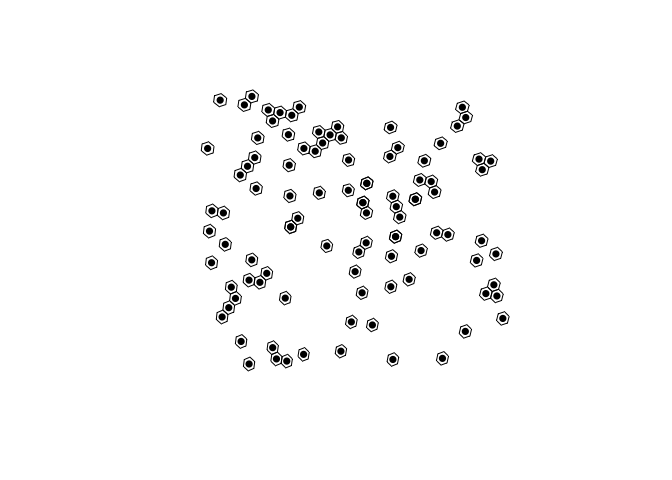
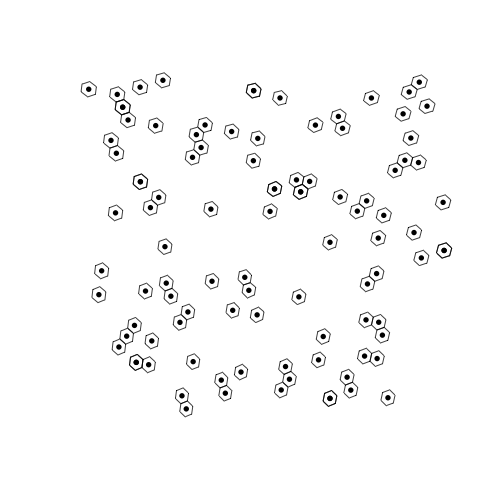
update readme

diff --git a/README.md b/README.md
@@ -1,24 +1,22 @@
+---
+output: github_document
+---
 
 <!-- README.md is generated from README.Rmd. Please edit that file -->
+
+
 
 # h3o
 
 <!-- badges: start -->
-
 [![R-CMD-check](https://github.com/JosiahParry/h3o/actions/workflows/R-CMD-check.yaml/badge.svg)](https://github.com/JosiahParry/h3o/actions/workflows/R-CMD-check.yaml)
 <!-- badges: end -->
 
-h3o is a system-dependency free package to interact with the H3
-Geospatial Indexing system by Uber. h3o utilizes the Rust library h3o
-with is a pure rust implementation of H3 and does not link or use Uber’s
-H3 C library. h3o R interface is powered by
-[extendr](https://extendr.github.io/) and should be able to compile on
-any machine.
+h3o is a system-dependency free package to interact with the H3 Geospatial Indexing system by Uber. h3o utilizes the Rust library h3o with is a pure rust implementation of H3 and does not link or use Uber's H3 C library. h3o R interface is powered by [extendr](https://extendr.github.io/) and should be able to compile on any machine. 
 
 ## Installation
 
-You can install the development version of h3o from
-[GitHub](https://github.com/) with:
+You can install the development version of h3o from [GitHub](https://github.com/) with:
 
 ``` r
 # install.packages("remotes")
@@ -27,8 +25,8 @@ remotes::install_github("JosiahParry/h3o")
 
 ## Example
 
-To illustrate the basic usage, we can first create an sf object of
-random points.
+To illustrate the basic usage, we can first create an sf object of random points. 
+
 
 ``` r
 pnts <- tibble::tibble(
@@ -39,13 +37,15 @@ pnts <- tibble::tibble(
     coords = c("x", "y"), 
     crs = 4326
   )
+
 ```
 
-h3o utilizes vctrs to create H3 class vectors so that they can work
-seemlessly within a tidyverse workflow.
+h3o utilizes vctrs to create H3 class vectors so that they can work seemlessly within
+a tidyverse workflow. 
 
-h3o is intended to work with the sf package for geometric operations. H3
-vectors can be created from `POINT` geometry columns (`sfc` objects).
+h3o is intended to work with the sf package for geometric operations. 
+H3 vectors can be created from `POINT` geometry columns (`sfc` objects).
+
 
 ``` r
 library(h3o)
@@ -55,26 +55,25 @@ pnts |>
 #> Simple feature collection with 100 features and 1 field
 #> Geometry type: POINT
 #> Dimension:     XY
-#> Bounding box:  xmin: -4.80551 ymin: 40.57655 xmax: 9.958988 ymax: 49.98309
+#> Bounding box:  xmin: -4.919497 ymin: 40.25333 xmax: 9.98528 ymax: 49.9593
 #> Geodetic CRS:  WGS 84
 #> # A tibble: 100 × 2
 #>                 geometry              h3
 #>  *           <POINT [°]>            <H3>
-#>  1 (-0.8983678 46.42658) 85186a8bfffffff
-#>  2   (1.884723 41.12234) 853946a7fffffff
-#>  3  (-4.056968 44.74521) 85185daffffffff
-#>  4   (8.173147 49.37186) 851f85b7fffffff
-#>  5   (3.206761 41.95335) 8539451bfffffff
-#>  6   (4.490571 43.27424) 85396eaffffffff
-#>  7  (-2.247376 43.43344) 85184b83fffffff
-#>  8  (-2.228073 46.82696) 85184577fffffff
-#>  9    (8.85834 47.34941) 851f8ecffffffff
-#> 10   (8.744089 47.93225) 851f8177fffffff
+#>  1   (2.785472 46.45577) 851f94cffffffff
+#>  2   (5.259132 44.97223) 851f930ffffffff
+#>  3   (8.734851 48.01969) 851f810ffffffff
+#>  4  (-3.751716 49.25705) 85187193fffffff
+#>  5   (9.780378 44.62055) 851ea6cbfffffff
+#>  6    (7.87759 47.21568) 851f8303fffffff
+#>  7   (6.871837 42.57346) 851eb6dbfffffff
+#>  8   (4.450498 46.81359) 851f951bfffffff
+#>  9 (0.01801486 43.70956) 8539668bfffffff
+#> 10    (8.864163 44.3646) 851f9b0bfffffff
 #> # ℹ 90 more rows
 ```
+Additionally, H3 vectors also have an `st_as_sfc()` method which lets us convert vectors of H3 cell indexes into `POLYGON`s. 
 
-Additionally, H3 vectors also have an `st_as_sfc()` method which lets us
-convert vectors of H3 cell indexes into `POLYGON`s.
 
 ``` r
 h3_cells <- pnts |> 
@@ -88,11 +87,14 @@ h3_cells <- pnts |>
 plot(sf::st_geometry(h3_cells))
 ```
 
-<img src="man/figures/README-unnamed-chunk-3-1.png" width="100%" />
+<div class="figure">
+<img src="man/figures/README-unnamed-chunk-3-1.png" alt="plot of chunk unnamed-chunk-3" width="100%" />
+<p class="caption">plot of chunk unnamed-chunk-3</p>
+</div>
 
-H3 cell centroids can be returned using `h3_to_points()`. If `sf` is
-avilable the results will be returned as an `sfc` (sf column) object.
-Otherwise it will return a list of `sfg` (sf geometries).
+H3 cell centroids can be returned using `h3_to_points()`. If `sf` is avilable the results will
+be returned as an `sfc` (sf column) object. Otherwise it will return a list of `sfg` (sf geometries). 
+
 
 ``` r
 # fetch h3 column
@@ -106,93 +108,95 @@ plot(sf::st_geometry(h3_cells))
 plot(h3_centers, pch = 16, add = TRUE, col = "black")
 ```
 
-<img src="man/figures/README-unnamed-chunk-4-1.png" width="100%" />
+<div class="figure">
+<img src="man/figures/README-unnamed-chunk-4-1.png" alt="plot of chunk unnamed-chunk-4" width="100%" />
+<p class="caption">plot of chunk unnamed-chunk-4</p>
+</div>
+
 
 ## sf compatibility
 
-h3o was designed with sf in mind. H3 is a geospatial indexing system so
-it is important to be able to go back and from from H3 and sf objects.
-H3 object can be created from sfc objects and vice versa.sfc objects can
-also be created using the `sf::sf_as_sfc()` method for `H3` or `H3Edge`
-vectors.
+h3o was designed with sf in mind. H3 is a geospatial indexing system so it is important to be able to go back and from from H3 and sf objects. H3 object can be created from sfc objects and vice versa.sfc objects can also be created using the `sf::sf_as_sfc()` method for `H3` or `H3Edge` vectors.
 
-`H3Edge` vectors represent the boundaries of H3 cells. They can be
-created with `h3_edges()`, `h3_shared_edge_pairwise()`, and
-`h3_shared_edge_sparse()`.
+`H3Edge` vectors represent the boundaries of H3 cells. They can be created with `h3_edges()`, `h3_shared_edge_pairwise()`, and `h3_shared_edge_sparse()`.
+
 
 ``` r
 cell_edges <- h3_edges(h3s[1:3])
 cell_edges
 #> [[1]]
 #> <H3Edge[6]>
-#> [1] 114186a9ffffffff 124186a9ffffffff 134186a9ffffffff 144186a9ffffffff
-#> [5] 154186a9ffffffff 164186a9ffffffff
+#> [1] 1141f94dffffffff 1241f94dffffffff 1341f94dffffffff 1441f94dffffffff
+#> [5] 1541f94dffffffff 1641f94dffffffff
 #> 
 #> [[2]]
 #> <H3Edge[6]>
-#> [1] 1143946bffffffff 1243946bffffffff 1343946bffffffff 1443946bffffffff
-#> [5] 1543946bffffffff 1643946bffffffff
+#> [1] 1141f931ffffffff 1241f931ffffffff 1341f931ffffffff 1441f931ffffffff
+#> [5] 1541f931ffffffff 1641f931ffffffff
 #> 
 #> [[3]]
 #> <H3Edge[6]>
-#> [1] 114185dbffffffff 124185dbffffffff 134185dbffffffff 144185dbffffffff
-#> [5] 154185dbffffffff 164185dbffffffff
+#> [1] 1141f811ffffffff 1241f811ffffffff 1341f811ffffffff 1441f811ffffffff
+#> [5] 1541f811ffffffff 1641f811ffffffff
 ```
 
-We’ve created a list of each cell’s edges. We can flatten them using
-`flatten_edges()`.
+We've created a list of each cell's edges. We can flatten them using `flatten_edges()`.
+
 
 ``` r
 cell_edges <- flatten_edges(cell_edges)
 cell_edges
 #> <H3Edge[18]>
-#>  [1] 114186a9ffffffff 124186a9ffffffff 134186a9ffffffff 144186a9ffffffff
-#>  [5] 154186a9ffffffff 164186a9ffffffff 1143946bffffffff 1243946bffffffff
-#>  [9] 1343946bffffffff 1443946bffffffff 1543946bffffffff 1643946bffffffff
-#> [13] 114185dbffffffff 124185dbffffffff 134185dbffffffff 144185dbffffffff
-#> [17] 154185dbffffffff 164185dbffffffff
+#>  [1] 1141f94dffffffff 1241f94dffffffff 1341f94dffffffff 1441f94dffffffff
+#>  [5] 1541f94dffffffff 1641f94dffffffff 1141f931ffffffff 1241f931ffffffff
+#>  [9] 1341f931ffffffff 1441f931ffffffff 1541f931ffffffff 1641f931ffffffff
+#> [13] 1141f811ffffffff 1241f811ffffffff 1341f811ffffffff 1441f811ffffffff
+#> [17] 1541f811ffffffff 1641f811ffffffff
 ```
 
 These can be cast to sfc objects using its `st_as_sfc()` method.
+
 
 ``` r
 sf::st_as_sfc(cell_edges)
 #> Geometry set for 18 features 
 #> Geometry type: LINESTRING
 #> Dimension:     XY
-#> Bounding box:  xmin: -4.256158 ymin: 40.84516 xmax: 2.07735 ymax: 46.73547
+#> Bounding box:  xmin: 2.395949 ymin: 44.79977 xmax: 8.827172 ymax: 48.382
 #> Geodetic CRS:  WGS 84
 #> First 5 geometries:
-#> LINESTRING (-0.7938494 46.27618, -0.4911588 46....
-#> LINESTRING (-0.9919804 46.66586, -1.044524 46.4...
-#> LINESTRING (-1.044524 46.43587, -0.7938494 46.2...
-#> LINESTRING (-0.4369869 46.5752, -0.6871241 46.7...
-#> LINESTRING (-0.4911588 46.3459, -0.4369869 46.5...
+#> LINESTRING (2.948007 46.49839, 3.012846 46.72299)
+#> LINESTRING (2.395949 46.5394, 2.63995 46.40685)
+#> LINESTRING (2.63995 46.40685, 2.948007 46.49839)
+#> LINESTRING (2.767743 46.85578, 2.458902 46.76373)
+#> LINESTRING (3.012846 46.72299, 2.767743 46.85578)
 ```
 
-Additionally, you can get the vertexes of H3 cell indexes using
-`h3_to_vertexes()` which returns an `sfc_MULTIPOINT`.
+Additionally, you can get the vertexes of H3 cell indexes using `h3_to_vertexes()` which returns an `sfc_MULTIPOINT`.
+
 
 ``` r
 h3_to_vertexes(h3s)
 #> Geometry set for 100 features 
 #> Geometry type: MULTIPOINT
 #> Dimension:     XY
-#> Bounding box:  xmin: -5.149019 ymin: 40.39257 xmax: 10.15344 ymax: 50.21131
+#> Bounding box:  xmin: -5.510812 ymin: 39.78466 xmax: 10.22827 ymax: 50.12141
 #> Geodetic CRS:  WGS 84
 #> First 5 geometries:
-#> MULTIPOINT ((-0.6871241 46.73547), (-0.9919804 ...
-#> MULTIPOINT ((1.563896 41.22113), (1.508041 40.9...
-#> MULTIPOINT ((-3.913195 45.05064), (-4.214897 44...
-#> MULTIPOINT ((7.743345 49.38758), (7.659308 49.1...
-#> MULTIPOINT ((3.125022 42.13971), (3.063423 41.9...
+#> MULTIPOINT ((2.458902 46.76373), (2.395949 46.5...
+#> MULTIPOINT ((4.818449 45.17055), (4.748771 44.9...
+#> MULTIPOINT ((8.243388 48.3043), (8.158854 48.08...
+#> MULTIPOINT ((-3.697215 49.31703), (-4.01933 49....
+#> MULTIPOINT ((9.666362 44.93792), (9.580722 44.7...
 ```
 
-## Bench marks:
 
-Since h3o is written in Rust, it is very fast.
+## Bench marks: 
 
-Creating polygons
+Since h3o is written in Rust, it is very fast. 
+
+Creating polygons 
+
 
 ``` r
 h3_strs <- as.character(h3s)
@@ -203,11 +207,32 @@ bench::mark(
 #> # A tibble: 2 × 6
 #>   expression      min   median `itr/sec` mem_alloc `gc/sec`
 #>   <bch:expr> <bch:tm> <bch:tm>     <dbl> <bch:byt>    <dbl>
-#> 1 h3o        292.17µs 312.24µs     3111.   26.84KB     36.9
-#> 2 h3jsr        7.51ms   7.94ms      124.    3.02MB     27.5
+#> 1 h3o         415.9µs 466.91µs     1985.    9.85KB     0   
+#> 2 h3jsr        7.39ms   8.16ms      118.   77.18KB     4.36
+```
+
+Converting polygons to H3 cells: 
+
+
+``` r
+nc <- sf::st_read(system.file("gpkg/nc.gpkg", package = "sf"), quiet = TRUE) |> 
+  sf::st_transform(4326) |> 
+  sf::st_geometry()
+
+bench::mark(
+  h3o = sfc_to_cells(nc, 5, "centroid"),
+  h3jsr = h3jsr::polygon_to_cells(nc, 5),
+  check = FALSE
+)
+#> # A tibble: 2 × 6
+#>   expression      min   median `itr/sec` mem_alloc `gc/sec`
+#>   <bch:expr> <bch:tm> <bch:tm>     <dbl> <bch:byt>    <dbl>
+#> 1 h3o          4.14ms   4.63ms     214.        6KB        0
+#> 2 h3jsr       28.13ms  29.28ms      33.9    18.6KB        0
 ```
 
 Converting points to cells
+
 
 ``` r
 bench::mark(
@@ -218,11 +243,12 @@ bench::mark(
 #> # A tibble: 2 × 6
 #>   expression      min   median `itr/sec` mem_alloc `gc/sec`
 #>   <bch:expr> <bch:tm> <bch:tm>     <dbl> <bch:byt>    <dbl>
-#> 1 h3o        108.44µs 127.84µs     5916.      848B     11.4
-#> 2 h3jsr        2.06ms   2.55ms      373.    1.03MB     12.9
+#> 1 h3o        140.14µs 168.88µs     4951.      848B     2.20
+#> 2 h3jsr        2.04ms   2.42ms      400.    55.6KB     2.27
 ```
 
 Retrieve edges
+
 
 ``` r
 bench::mark(
@@ -233,11 +259,12 @@ bench::mark(
 #> # A tibble: 2 × 6
 #>   expression      min   median `itr/sec` mem_alloc `gc/sec`
 #>   <bch:expr> <bch:tm> <bch:tm>     <dbl> <bch:byt>    <dbl>
-#> 1 h3o         602.5µs 682.36µs     1054.      848B     9.82
-#> 2 h3jsr         1.8ms   2.12ms      425.    71.4KB    16.2
+#> 1 h3o        762.89µs 875.99µs      995.      848B     2.55
+#> 2 h3jsr        1.79ms   2.37ms      381.    46.1KB     0
 ```
 
 Get origins and destinations from edges.
+
 
 ``` r
 # get edges for a single location
@@ -253,6 +280,7 @@ bench::mark(
 #> # A tibble: 2 × 6
 #>   expression      min   median `itr/sec` mem_alloc `gc/sec`
 #>   <bch:expr> <bch:tm> <bch:tm>     <dbl> <bch:byt>    <dbl>
-#> 1 h3o          19.6µs   22.9µs    34920.    12.7KB     10.5
-#> 2 h3jsr       471.4µs  543.2µs     1787.    34.8KB     22.6
+#> 1 h3o          23.5µs   26.8µs    35917.        0B    11.9 
+#> 2 h3jsr       458.3µs    505µs     1782.    1.36KB     2.05
 ```
+
